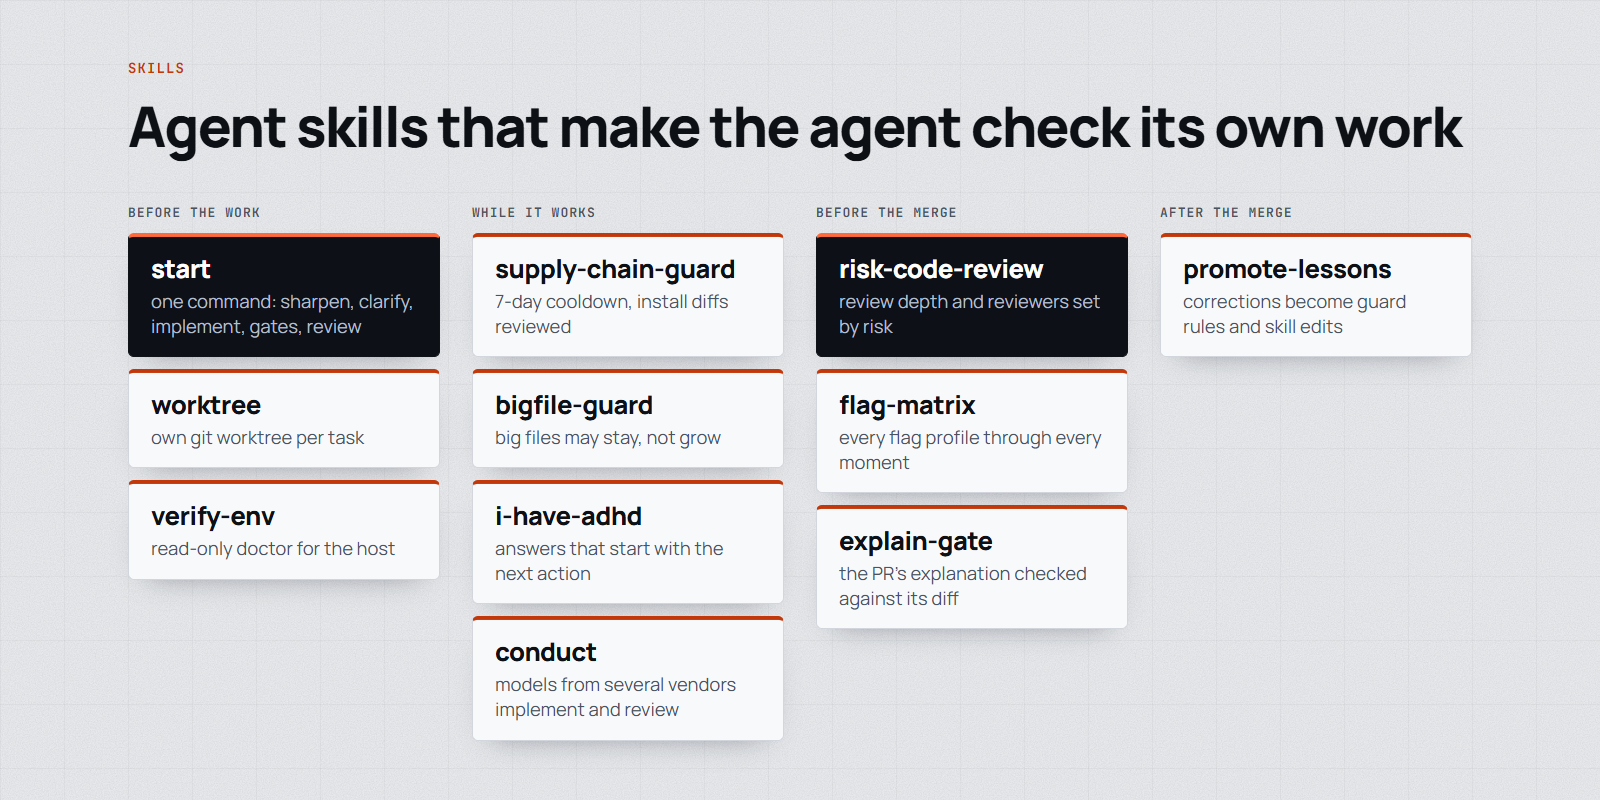
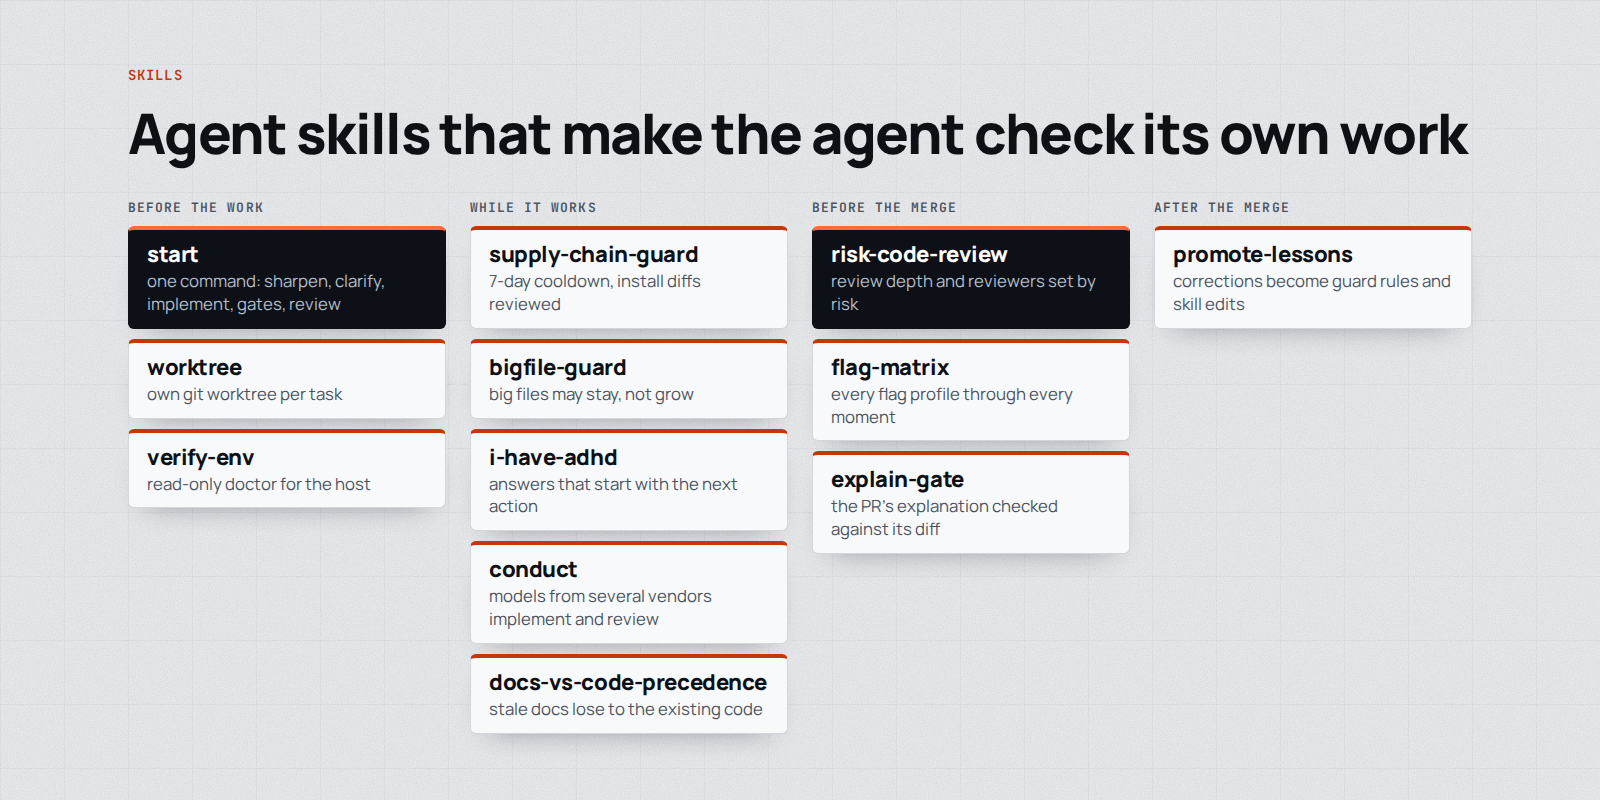
feat: add docs-vs-code-precedence skill
One sentence in CLAUDE.md or AGENTS.md makes the agent follow the
conventions of the existing code when the instruction file disagrees,
and name each conflict in its final reply. The skill gives idempotent
bash and PowerShell install steps for user and repo level, a check,
caveats, and the evidence from Xu and Wu (arXiv 2610.30571) plus a
small replication.

Adds a README row, a tile and a slide in the README figure, and raises
the plugin version to 0.2.0.

Changed region(s): [[0.0625, 0.25, 0.9375, 0.9375], [0.0625, 0.125, 0.9375, 0.2188], [0.0625, 0.0625, 0.125, 0.0938]]

diff --git a/docs/figures/readme.src.html b/docs/figures/readme.src.html
@@ -274,6 +274,11 @@
   .groups > div { display: grid; gap: 12px; align-content: start; }
   .groups .tile b { font-size: clamp(20px, 1.6vw, 26px); }
   [data-figure="skills"] .slide__heading { max-width: none; }
+  [data-figure="skills"] .groups { gap: clamp(14px, 1.6vw, 24px); margin-top: clamp(12px, 2vh, 24px); }
+  [data-figure="skills"] .groups > div { gap: 10px; }
+  [data-figure="skills"] .tile { padding: 12px 18px; gap: 4px; }
+  [data-figure="skills"] .groups .tile b { font-size: clamp(18px, 1.4vw, 22px); }
+  [data-figure="skills"] .tile span { font-size: clamp(15px, 1.05vw, 17px); }
 </style>
 </head>
 <body>
@@ -366,6 +371,7 @@
         <div class="tile"><b>bigfile-guard</b><span>big files may stay, not grow</span></div>
         <div class="tile"><b>i-have-adhd</b><span>answers that start with the next action</span></div>
         <div class="tile"><b>conduct</b><span>models from several vendors implement and review</span></div>
+        <div class="tile"><b>docs-vs-code-precedence</b><span>stale docs lose to the existing code</span></div>
       </div>
       <div>
         <p class="case__trigger">Before the merge</p>
@@ -461,6 +467,34 @@
           <p>About 15 minutes if tests cover this. An afternoon if not.</p>
         </div>
         <figcaption>10 output rules and a pre-send check. Adapted from ayghri/i-have-adhd (MIT).</figcaption>
+      </figure>
+    </div>
+  </section>
+
+  <section class="slide" data-figure="docs-vs-code-precedence">
+    <div class="split split--even split--review">
+      <div>
+        <p class="slide__label">docs-vs-code-precedence</p>
+        <h2 class="slide__heading">When the instruction file and the code disagree, the code wins</h2>
+        <ul class="points">
+          <li><b>One sentence</b> in CLAUDE.md or AGENTS.md</li>
+          <li><b>Follows the code</b> already in the repo</li>
+          <li><b>Names each conflict</b> in the final reply</li>
+          <li><b>Process rules stay</b>: gates, commit signing</li>
+        </ul>
+      </div>
+      <figure>
+        <div class="chat">
+          <p class="chat__you"><b>task</b>add a test for the price parser</p>
+          <dl class="chat__kv">
+            <dt>CLAUDE.md</dt><dd>"write tests with unittest"</dd>
+            <dt>code</dt><dd>every existing test uses pytest</dd>
+          </dl>
+          <p class="chat__head">Final reply</p>
+          <p class="chat__rewrite">Added a pytest test, like the existing ones. CLAUDE.md says unittest; the code uses pytest.</p>
+          <p class="chat__head chat__head--go">followed the code: 69 of 76 (was 11)</p>
+        </div>
+        <figcaption>Shortened example. 69 of 76 choices followed the code with the sentence, 11 of 76 without: a replication of Xu and Wu (arXiv 2610.30571) on 18 small Python projects, Claude Code, 1 run per condition.</figcaption>
       </figure>
     </div>
   </section>

diff --git a/skills/docs-vs-code-precedence/README.md b/skills/docs-vs-code-precedence/README.md
@@ -1,0 +1,121 @@
+# docs-vs-code-precedence
+
+**One sentence in `CLAUDE.md` or `AGENTS.md` that makes the agent follow the existing code, not a stale instruction file, when the two disagree, and name each conflict in its final reply.**
+
+<p align="center">
+  <picture>
+    <source media="(prefers-color-scheme: dark)" srcset="assets/docs-vs-code-precedence-dark.png">
+    <img alt="When the instruction file and the code disagree, the code wins. One sentence in CLAUDE.md or AGENTS.md, at user or repo level: the agent follows the conventions of the existing code and names each conflict in its final reply; process rules such as review gates and commit signing still apply. Example: CLAUDE.md says test with unittest, every existing test uses pytest; the agent writes a pytest test and its reply points out the conflict. In the replication it followed the code in 69 of 76 choices with the sentence, up from 11 of 76 without." src="assets/docs-vs-code-precedence-light.png" width="880">
+  </picture>
+</p>
+
+```text
+When a repository's documentation and its existing code disagree, follow the conventions used in the existing code, and in your final reply point out each inconsistency you found between the documentation and the code.
+```
+
+| | |
+| --- | --- |
+| **Fires** | in every session that loads the file, whenever the instruction file and the existing code disagree about a convention |
+| **Does** | the agent writes code the way the existing code does, then lists each conflict it found so you can fix the file |
+| **Never** | overrides process rules: review gates, test requirements and commit signing still apply |
+| **Needs** | an agent that reads `CLAUDE.md` (Claude Code) or `AGENTS.md` (Codex and others); a new session after you add it |
+
+## Why
+
+Instruction files go stale: the code moves to pytest, a new logger or another naming style, and `CLAUDE.md` still describes the old way. Agents then follow the file and write new code that does not match the code around it. In our replication of the paper below, Claude Code followed the stale file in 61 of 76 choices without the sentence, and followed the code in 69 of 76 with it.
+
+## Install
+
+Add the sentence at user level (you, in every repo) or at repo level (everyone who clones the repo, no per-person setup). Each command appends only when the sentence is missing, creates the file when there is none, and copies an existing file to `<file>.bak-YYYY-MM-DD` first.
+
+Linux or macOS (bash):
+
+```bash
+add_rule() {
+  f=$1
+  s="When a repository's documentation and its existing code disagree, follow the conventions used in the existing code, and in your final reply point out each inconsistency you found between the documentation and the code."
+  mkdir -p "$(dirname "$f")"
+  if [ -f "$f" ] && grep -qF "$s" "$f"; then echo "already in $f"; return; fi
+  if [ -f "$f" ]; then
+    b="$f.bak-$(date +%F)"; [ -e "$b" ] || cp "$f" "$b"
+    printf '\n%s\n' "$s" >> "$f"
+  else
+    printf '%s\n' "$s" > "$f"
+  fi
+  echo "added to $f"
+}
+add_rule ~/.claude/CLAUDE.md   # user level, Claude Code
+add_rule ~/.codex/AGENTS.md    # user level, Codex
+add_rule CLAUDE.md             # repo level, run from the repo root
+```
+
+Windows (PowerShell):
+
+```powershell
+function Add-Rule($Path) {
+  $s = "When a repository's documentation and its existing code disagree, follow the conventions used in the existing code, and in your final reply point out each inconsistency you found between the documentation and the code."
+  $dir = Split-Path -Parent $Path
+  if ($dir) { New-Item -ItemType Directory -Force -Path $dir | Out-Null }
+  if (Test-Path $Path) {
+    if (Select-String -Path $Path -SimpleMatch -Quiet -Pattern $s) { "already in $Path"; return }
+    $b = "$Path.bak-$(Get-Date -Format yyyy-MM-dd)"
+    if (-not (Test-Path $b)) { Copy-Item $Path $b }
+    Add-Content -Path $Path -Value "`n$s" -Encoding ascii
+  } else {
+    Set-Content -Path $Path -Value $s -Encoding ascii
+  }
+  "added to $Path"
+}
+Add-Rule "$HOME\.claude\CLAUDE.md"   # user level, Claude Code
+Add-Rule "$HOME\.codex\AGENTS.md"    # user level, Codex
+Add-Rule "CLAUDE.md"                 # repo level, run from the repo root
+```
+
+Keep the lines you need. Codex reads `$CODEX_HOME/AGENTS.md` when `CODEX_HOME` is set. For the repo level, use `AGENTS.md` if that is the file your team's agent reads, delete the `.bak-*` copy (git keeps the old version) and commit the change.
+
+To let an agent do it, copy the skill and ask it to "add the docs-vs-code rule":
+
+```bash
+git clone https://github.com/MarcinSufa/skills
+cp -r skills/skills/docs-vs-code-precedence ~/.claude/skills/
+```
+
+## Verify
+
+```bash
+grep -F "follow the conventions used in the existing code" ~/.claude/CLAUDE.md ~/.codex/AGENTS.md CLAUDE.md
+```
+
+```powershell
+Select-String -SimpleMatch -Pattern "follow the conventions used in the existing code" -Path "$HOME\.claude\CLAUDE.md", "$HOME\.codex\AGENTS.md", "CLAUDE.md"
+```
+
+Then start a new Claude Code or Codex session. A session that is already open loaded the old file.
+
+## Evidence
+
+Paper: Xu and Wu, "Stale Instruction Files Override the Code in Coding Agents: A One-Sentence Fix", [arXiv 2610.30571](https://arxiv.org/abs/2610.30571). Data and classifiers: [WenJing95/stale-docs-data](https://github.com/WenJing95/stale-docs-data).
+
+Our replication: Claude Code 2.1.310 (`claude-sonnet-5-5`), 18 projects (P01 to P18) x 2 conditions x 1 run, 76 choices per condition, scored with the paper's `judge.py` and `score.py`.
+
+| | followed the stale file | followed the code | neither | conflict named |
+| --- | --- | --- | --- | --- |
+| without the sentence | 61 of 76 (80.3%) | 11 of 76 (14.5%) | 4 of 76 (5.3%) | 18 of 18 replies |
+| with the sentence | 3 of 76 | 69 of 76 (90.8%) | 4 of 76 (5.3%) | 18 of 18 replies |
+
+- Tests passed 18 of 18 in both conditions. No run rewrote existing Python: 0 of 36 runs deleted 20 or more lines in an existing `.py` file.
+- The paper, Claude only, with more runs (80 runs, 360 choices per condition): without the sentence 86.4% followed the file and 7.5% the code; with it 94.4% followed the code.
+- Across Claude and Codex the paper's test pass rate went from 89.4% to 100%. That lift came from Codex rewrites, which we did not run.
+
+## Limits
+
+- It covers documentation and existing code that disagree about coding conventions. It does not tell the agent to skip process rules such as review gates or commit signing.
+- The paper and our replication used small Python projects. It was not re-tested on a real application repository.
+- Not run: projects P19 to P40, a second run per cell, and Codex CLI.
+
+## Files
+
+| File | For |
+| --- | --- |
+| [`SKILL.md`](SKILL.md) | the agent: when to add the sentence, the install and verify steps, the caveats |
+| `README.md` | you |

diff --git a/skills/docs-vs-code-precedence/SKILL.md b/skills/docs-vs-code-precedence/SKILL.md
@@ -1,0 +1,111 @@
+---
+name: docs-vs-code-precedence
+description: 'Adds one sentence to CLAUDE.md or AGENTS.md so the agent follows the conventions of the existing code, not a stale instruction file, when the two disagree, and names each conflict in its final reply. Use when setting up Claude Code, Codex or another agent that reads CLAUDE.md or AGENTS.md, when a repository instruction file may be stale relative to the code, or when onboarding a team so everyone gets the same precedence rule.'
+---
+
+# docs-vs-code-precedence
+
+Agents follow the instruction file over the code it describes. When `CLAUDE.md` or `AGENTS.md` says one convention and the existing code uses another, the agent usually writes new code to match the stale file. One sentence in the instruction file flips that: the agent follows the code and reports the conflict.
+
+## When to use
+
+- Setting up Claude Code, Codex or another agent that reads `CLAUDE.md` or `AGENTS.md`.
+- A repository's instruction file may be stale relative to its code.
+- Onboarding a team, so everyone gets the same precedence rule.
+
+## The sentence
+
+Copy it verbatim. Do not rephrase it: this exact wording is what was measured.
+
+```text
+When a repository's documentation and its existing code disagree, follow the conventions used in the existing code, and in your final reply point out each inconsistency you found between the documentation and the code.
+```
+
+| Level | File | Who gets it |
+| --- | --- | --- |
+| user, Claude Code | `~/.claude/CLAUDE.md` | you, in every repo |
+| user, Codex | `~/.codex/AGENTS.md` (or `$CODEX_HOME/AGENTS.md`) | you, in every repo |
+| repo | `CLAUDE.md` or `AGENTS.md` at the repo root, whichever the team's agent reads | everyone who clones the repo |
+
+Ask the user which level they want if they did not say. The user-level files are theirs: do not edit them without that answer.
+
+## Install
+
+Each command appends the sentence only when it is not already in the file, creates the file (and its folder) when missing, and copies an existing file to `<file>.bak-YYYY-MM-DD` before it appends.
+
+Linux or macOS (bash):
+
+```bash
+add_rule() {
+  f=$1
+  s="When a repository's documentation and its existing code disagree, follow the conventions used in the existing code, and in your final reply point out each inconsistency you found between the documentation and the code."
+  mkdir -p "$(dirname "$f")"
+  if [ -f "$f" ] && grep -qF "$s" "$f"; then echo "already in $f"; return; fi
+  if [ -f "$f" ]; then
+    b="$f.bak-$(date +%F)"; [ -e "$b" ] || cp "$f" "$b"
+    printf '\n%s\n' "$s" >> "$f"
+  else
+    printf '%s\n' "$s" > "$f"
+  fi
+  echo "added to $f"
+}
+add_rule ~/.claude/CLAUDE.md   # user level, Claude Code
+add_rule ~/.codex/AGENTS.md    # user level, Codex
+add_rule CLAUDE.md             # repo level, run from the repo root
+```
+
+Windows (PowerShell):
+
+```powershell
+function Add-Rule($Path) {
+  $s = "When a repository's documentation and its existing code disagree, follow the conventions used in the existing code, and in your final reply point out each inconsistency you found between the documentation and the code."
+  $dir = Split-Path -Parent $Path
+  if ($dir) { New-Item -ItemType Directory -Force -Path $dir | Out-Null }
+  if (Test-Path $Path) {
+    if (Select-String -Path $Path -SimpleMatch -Quiet -Pattern $s) { "already in $Path"; return }
+    $b = "$Path.bak-$(Get-Date -Format yyyy-MM-dd)"
+    if (-not (Test-Path $b)) { Copy-Item $Path $b }
+    Add-Content -Path $Path -Value "`n$s" -Encoding ascii
+  } else {
+    Set-Content -Path $Path -Value $s -Encoding ascii
+  }
+  "added to $Path"
+}
+Add-Rule "$HOME\.claude\CLAUDE.md"   # user level, Claude Code
+Add-Rule "$HOME\.codex\AGENTS.md"    # user level, Codex
+Add-Rule "CLAUDE.md"                 # repo level, run from the repo root
+```
+
+Run only the lines for the levels the user chose. For the repo level use `AGENTS.md` instead of `CLAUDE.md` if that is the file the team's agent reads. Git already keeps the old repo file, so delete the repo-level `.bak-*` copy instead of committing it, then commit the change so the team gets it.
+
+## Verify
+
+```bash
+grep -F "follow the conventions used in the existing code" ~/.claude/CLAUDE.md ~/.codex/AGENTS.md CLAUDE.md
+```
+
+```powershell
+Select-String -SimpleMatch -Pattern "follow the conventions used in the existing code" -Path "$HOME\.claude\CLAUDE.md", "$HOME\.codex\AGENTS.md", "CLAUDE.md"
+```
+
+Then tell the user to start a new Claude Code or Codex session. A session that is already open loaded the old file and does not see the sentence.
+
+## Caveats
+
+- The sentence covers documentation and existing code that disagree about coding conventions. It does not tell the agent to ignore process rules such as review gates, test requirements or commit signing: keep following those.
+- The paper and the replication below used small Python projects. It was not re-tested here on a real application repository, and Codex was not re-run.
+
+## Evidence
+
+Xu and Wu, "Stale Instruction Files Override the Code in Coding Agents: A One-Sentence Fix", arXiv 2610.30571, https://arxiv.org/abs/2610.30571. Data: https://github.com/WenJing95/stale-docs-data
+
+Replication with Claude Code 2.1.310 (`claude-sonnet-5-5`), 18 projects (P01 to P18) x 2 conditions x 1 run, 76 choices per condition, scored with the paper's `judge.py` and `score.py`:
+
+| | followed the stale file | followed the code | neither | conflict named |
+| --- | --- | --- | --- | --- |
+| without the sentence | 61 of 76 (80.3%) | 11 of 76 (14.5%) | 4 of 76 (5.3%) | 18 of 18 replies |
+| with the sentence | 3 of 76 | 69 of 76 (90.8%) | 4 of 76 (5.3%) | 18 of 18 replies |
+
+Tests passed 18 of 18 in both conditions; no run rewrote existing Python (0 of 36 runs deleted 20 or more lines in an existing `.py` file). The paper, Claude only, with more runs (80 runs, 360 choices per condition): without the sentence 86.4% followed the file and 7.5% the code; with it 94.4% followed the code. Across Claude and Codex the paper's test pass rate went from 89.4% to 100%; that lift came from Codex rewrites, which this replication did not run.
+
+Not run: projects P19 to P40, a second run per cell, Codex CLI, and a real application repository.

diff --git a/README.md b/README.md
@@ -3,7 +3,7 @@
 <p align="center">
   <picture>
     <source media="(prefers-color-scheme: dark)" srcset="docs/assets/skills-dark.png">
-    <img alt="Agent skills that make the agent check its own work. Before the work: start, worktree, verify-env. While it works: supply-chain-guard, bigfile-guard, i-have-adhd, conduct. Before the merge: risk-code-review, flag-matrix, explain-gate. After the merge: promote-lessons." src="docs/assets/skills-light.png" width="880">
+    <img alt="Agent skills that make the agent check its own work. Before the work: start, worktree, verify-env. While it works: supply-chain-guard, bigfile-guard, i-have-adhd, conduct, docs-vs-code-precedence. Before the merge: risk-code-review, flag-matrix, explain-gate. After the merge: promote-lessons." src="docs/assets/skills-light.png" width="880">
   </picture>
 </p>
 
@@ -31,6 +31,7 @@ Agent skills for Claude Code (they also work in other agents that read `SKILL.md
 | [supply-chain-guard](skills/supply-chain-guard/README.md) | Release cooldown for package managers plus a hook that diffs what an install would add | own |
 | [bigfile-guard](skills/bigfile-guard/README.md) | Flags staged text files over about 5000 tokens that are new or grew, so agents can read files whole | own |
 | [i-have-adhd](skills/i-have-adhd/README.md) | Answers shaped for an ADHD reader: next action first, numbered steps, no filler | adapted from ayghri (MIT) |
+| [docs-vs-code-precedence](skills/docs-vs-code-precedence/README.md) | One sentence in CLAUDE.md or AGENTS.md: when the docs and the existing code disagree, follow the code and name each conflict | own; sentence from Xu and Wu, [arXiv 2610.30571](https://arxiv.org/abs/2610.30571) |
 
 ### Before the merge
 
